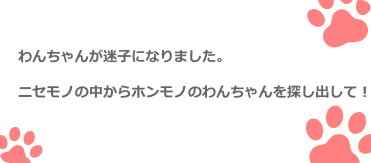
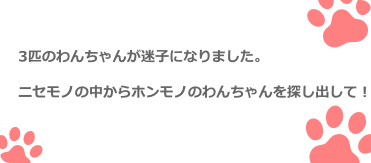
lp html更新 犬探しのカウント数を実装

Changed region(s): [[0.0296, 0.3067, 0.7116, 0.3988]]

diff --git a/assets/pc/js/mistake/index.js b/assets/pc/js/mistake/index.js
@@ -11,7 +11,7 @@
 
 (function() {
   (function($) {
-    var DIM_DELTA, DIM_FIRST, MAX_LEVEL, dim, gameStart, games, level, t1, t2;
+    var DIM_DELTA, DIM_FIRST, MAX_LEVEL, dim, gameReset, gameStart, games, level, t1, t2;
     level = 0;
     games = [[PC_IMG_DIR + 'mistake/dummyDog.jpg', PC_IMG_DIR + 'mistake/dog.jpg'], [PC_IMG_DIR + 'mistake/dummyDog.jpg', PC_IMG_DIR + 'mistake/dog.jpg'], [PC_IMG_DIR + 'mistake/dummyDog.jpg', PC_IMG_DIR + 'mistake/dog.jpg']];
     MAX_LEVEL = games.length - 1;
@@ -28,7 +28,6 @@
       dummy = games[level][0];
       seikai = games[level][1];
       if (level === 0) {
-        $('#score').text('クリアタイム');
         t1 = (new Date).getTime();
       }
       cells = '';
@@ -61,15 +60,20 @@
         } else if (level === 1) {
           $('#cells span img').css('width', '11%');
           $('#gameReset').fadeIn();
+          $('#count').text('残り2匹！');
         } else if (level === 2) {
           $('#cells span img').css('width', '9%');
+          $('#count').text('残り1匹！');
         }
         $('#s' + i).click(function() {
           if ($(this).children('img').attr('src') === seikai) {
             $(this).children('img').css('border-color', '#0f0');
+            $('#score').text('正解！');
+            $('.right').find('img').eq(level).attr("src", PC_IMG_DIR + 'mistake/dog.jpg');
             level++;
             dim += DIM_DELTA;
             if (level > MAX_LEVEL) {
+              $('#count').text('目標達成！');
               $('#cells').css('pointer-events', 'none');
               $('#gameReset').fadeOut();
               t2 = (new Date).getTime();
@@ -82,24 +86,32 @@
             gameStart();
           } else {
             $(this).children('img').css('border-color', '#f00');
+            $('#score').text('ニセモノだよ！');
           }
         });
         i++;
       }
     };
+    gameReset = function() {
+      $('.right').find('img').attr("src", PC_IMG_DIR + 'mistake/img_emptyDog.jpg');
+      $('#count').text('残り3匹！');
+      $('#score').text('クリアタイム');
+      if (level >= 1) {
+        level = 0;
+        dim = DIM_FIRST;
+        return false;
+      }
+    };
     $('#gameStart').click(function() {
       $(this).hide('20');
       $('#gameReset').fadeOut();
+      gameReset();
       gameStart();
     });
     return $('#gameReset').click(function() {
       $(this).fadeOut();
-      if (level >= 1) {
-        level = 0;
-        dim = DIM_FIRST;
-        gameStart();
-        return false;
-      }
+      gameReset();
+      gameStart();
     });
   })(jQuery);
 

diff --git a/assets/pc/css/mistake/style.css b/assets/pc/css/mistake/style.css
@@ -2,7 +2,7 @@
 /* ------------------------------------------- SASS Information
  Name:      style.scss
  Author:    Y.takaoka
- Update:    2016-11-14 01:38:45 +0900
+ Update:    2016-11-15 14:15:22 +0900
  Info:      間違い探し
 ----------------------------------------------------------- */
 /* -----------------------------------------------------------
@@ -1666,30 +1666,42 @@ textarea:focus {
   height: 98%;
   text-align: center;
 }
-#section-contents .right img {
-  margin-top: 20px;
-}
 #section-contents .right .box {
+  padding: 6% 0px;
   margin-top: 20px;
   background: white;
   border-radius: 10px;
-  height: 12%;
-  display: table;
   width: 100%;
+}
+#section-contents .right .box:first-child {
+  height: 20%;
+  padding: 6% 0px;
+}
+#section-contents .right .box p {
+  padding-bottom: 5%;
+  color: #ff8080;
+  font-weight: bold;
+  font-size: 23px;
+}
+#section-contents .right .box .inner span {
+  display: table-cell;
+  vertical-align: middle;
+}
+#section-contents .right .box .inner span img {
+  width: 90%;
+  border-radius: 10px;
 }
 #section-contents .right #score {
   color: #ff8080;
   font-weight: bold;
   font-size: 23px;
   font-weight: bold;
-  display: table-cell;
-  vertical-align: middle;
 }
 #section-contents .right button {
   display: none;
   cursor: pointer;
   border: none;
-  background: #4CAF50;
+  background: #34cf81;
   color: #fff;
   text-transform: uppercase;
   letter-spacing: 2px;

diff --git a/works/mistake/index.html b/works/mistake/index.html
@@ -56,14 +56,17 @@
       <div class="left">
         <h1><img src="/assets/pc/images/mistake/heading_title.png"></h1>
         <div id="story"><img src="/assets/pc/images/mistake/heading_story.png"><img src="/assets/pc/images/mistake/bg_story.png"></div>
-        <div id="caution"><img src="/assets/pc/images/mistake/heading_caution.png"><img src="/assets/pc/images/mistake/bg_caution.png">
-        </div>
+        <div id="caution"><img src="/assets/pc/images/mistake/heading_caution.png"><img src="/assets/pc/images/mistake/bg_caution.png"></div>
       </div>
       <div class="center">
         <button id="gameStart" type="button">さがす</button>
         <div id="cells"></div>
       </div>
       <div class="right">
+        <div class="box">
+          <p id="count">残り3匹！</p>
+          <div class="inner"><span><img src="/assets/pc/images/mistake/img_emptyDog.jpg"></span><span><img src="/assets/pc/images/mistake/img_emptyDog.jpg"></span><span><img src="/assets/pc/images/mistake/img_emptyDog.jpg"></span></div>
+        </div>
         <div class="box"><span id="score">クリアタイム</span></div>
         <button id="gameReset" type="button">やりなおす</button>
       </div>

diff --git a/index.html b/index.html
@@ -66,7 +66,7 @@
         <div class="overlay">
           <div class="inbox">
             <h2><a href="/works/photo/" target="blank">LG G4 - Photo Gallery</a></h2>
-            <p>2016年 XX月</p>
+            <p>2016年 11月</p>
             <p>jade scss jQuery</p>
             <p class="mt10">デザインはシンプルで可能な限り演出に力を入れる事を目標に制作しました。<br>ほとんどのJSを1人で書けるようになり、JSに対する苦手意識がなくなったので作ってよかったです。</p>
           </div>
@@ -86,7 +86,7 @@
       <div class="box jade jquery all"><img src="./assets/pc/images/lp/img_mistake.png" width="150" alt="">
         <div class="overlay">
           <div class="inbox">
-            <h2> <a href="/works/mistake/" target="blank">間違い探し </a></h2>
+            <h2> <a href="/works/mistake/" target="blank">THE・犬探し</a></h2>
             <p>2015年 8月</p>
             <p>jade scss jQuery</p>
             <p class="mt10"><span class="bold fs16">「jQueryに慣れていく」</span>という事を名目に作り上げたサイトです。                    </p>

diff --git a/sp/index.html b/sp/index.html
@@ -57,7 +57,7 @@
           <div class="overlay">
             <div class="inbox">
               <h3>LG G4 - Photo Gallery</h3>
-              <p>2016年 XX月</p>
+              <p>2016年 11月</p>
               <p>jade scss jQuery</p>
               <p class="mt10">デザインはシンプルで可能な限り演出に力を入れる事を目標に制作しました。<br>ほとんどのJSを1人で書けるようになり、JSに対する苦手意識がなくなったので作ってよかったです。</p>
             </div>
@@ -75,7 +75,7 @@
       <div class="box jade jquery all"><img src="../assets/sp/images/lp/img_mistake.png" width="150" alt=""><a href="/works/mistake/" target="blank">
           <div class="overlay">
             <div class="inbox">
-              <h3>間違い探し </h3>
+              <h3>THE・犬探し</h3>
               <p>2015年 8月</p>
               <p>jade scss jQuery</p>
               <p class="mt10"><span class="bold fs16">「jQueryに慣れていく」</span>という事を名目に作り上げたサイトです。                    </p>
